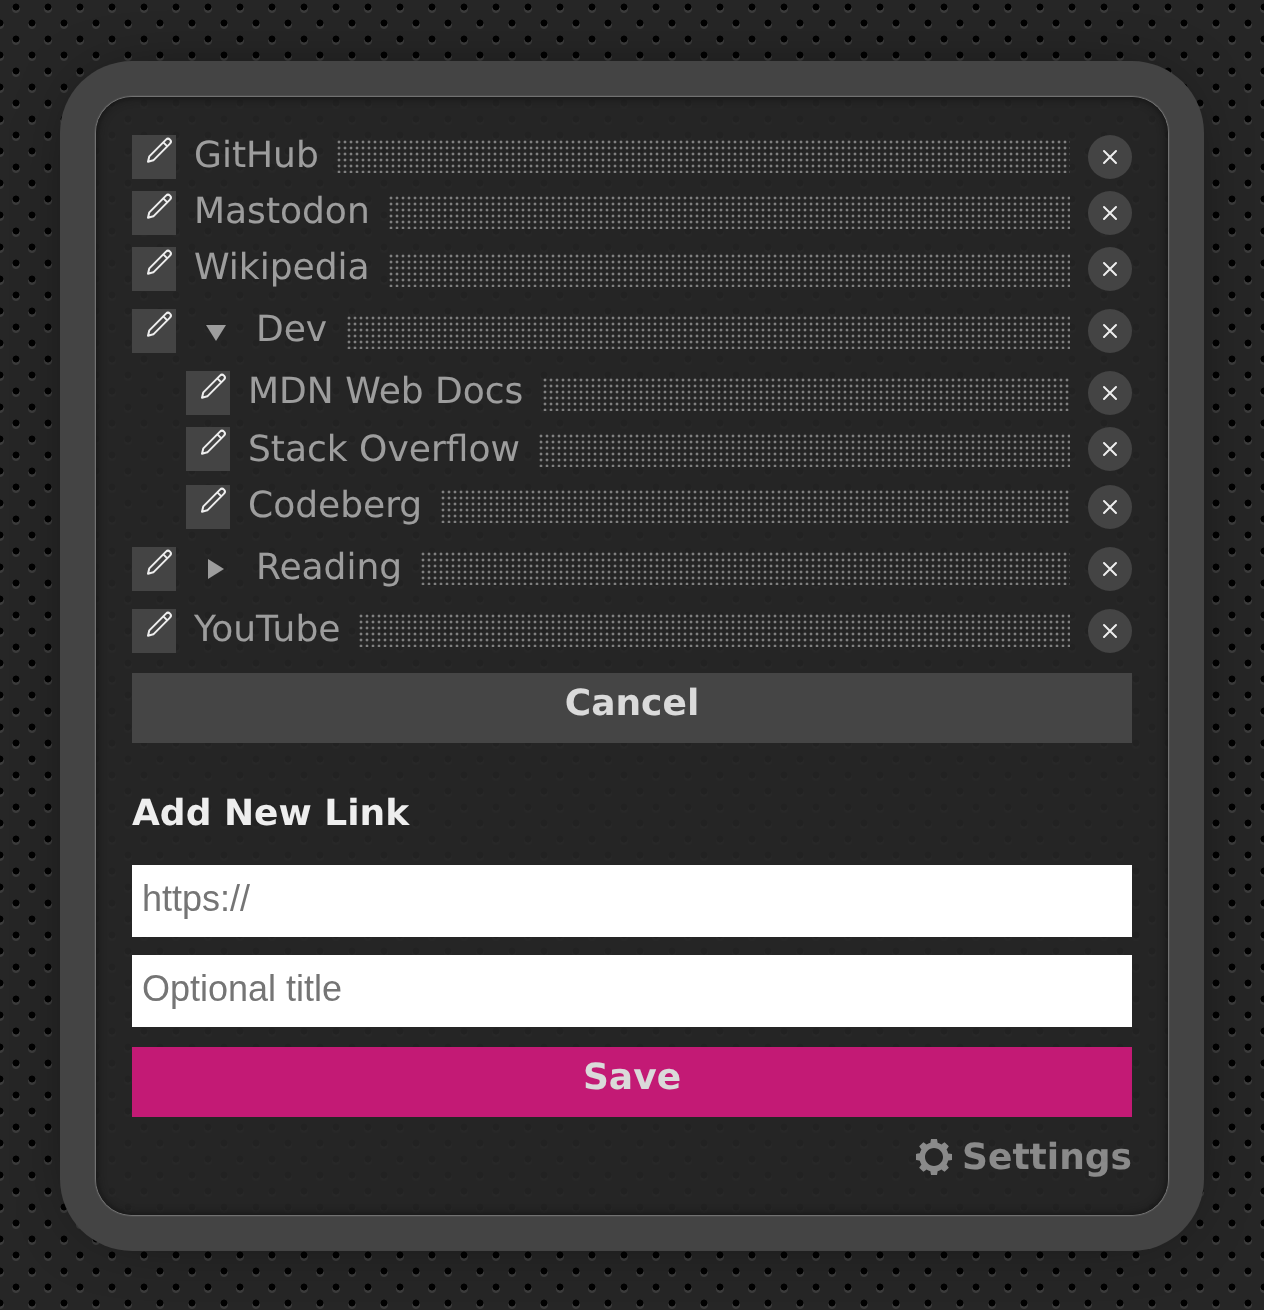
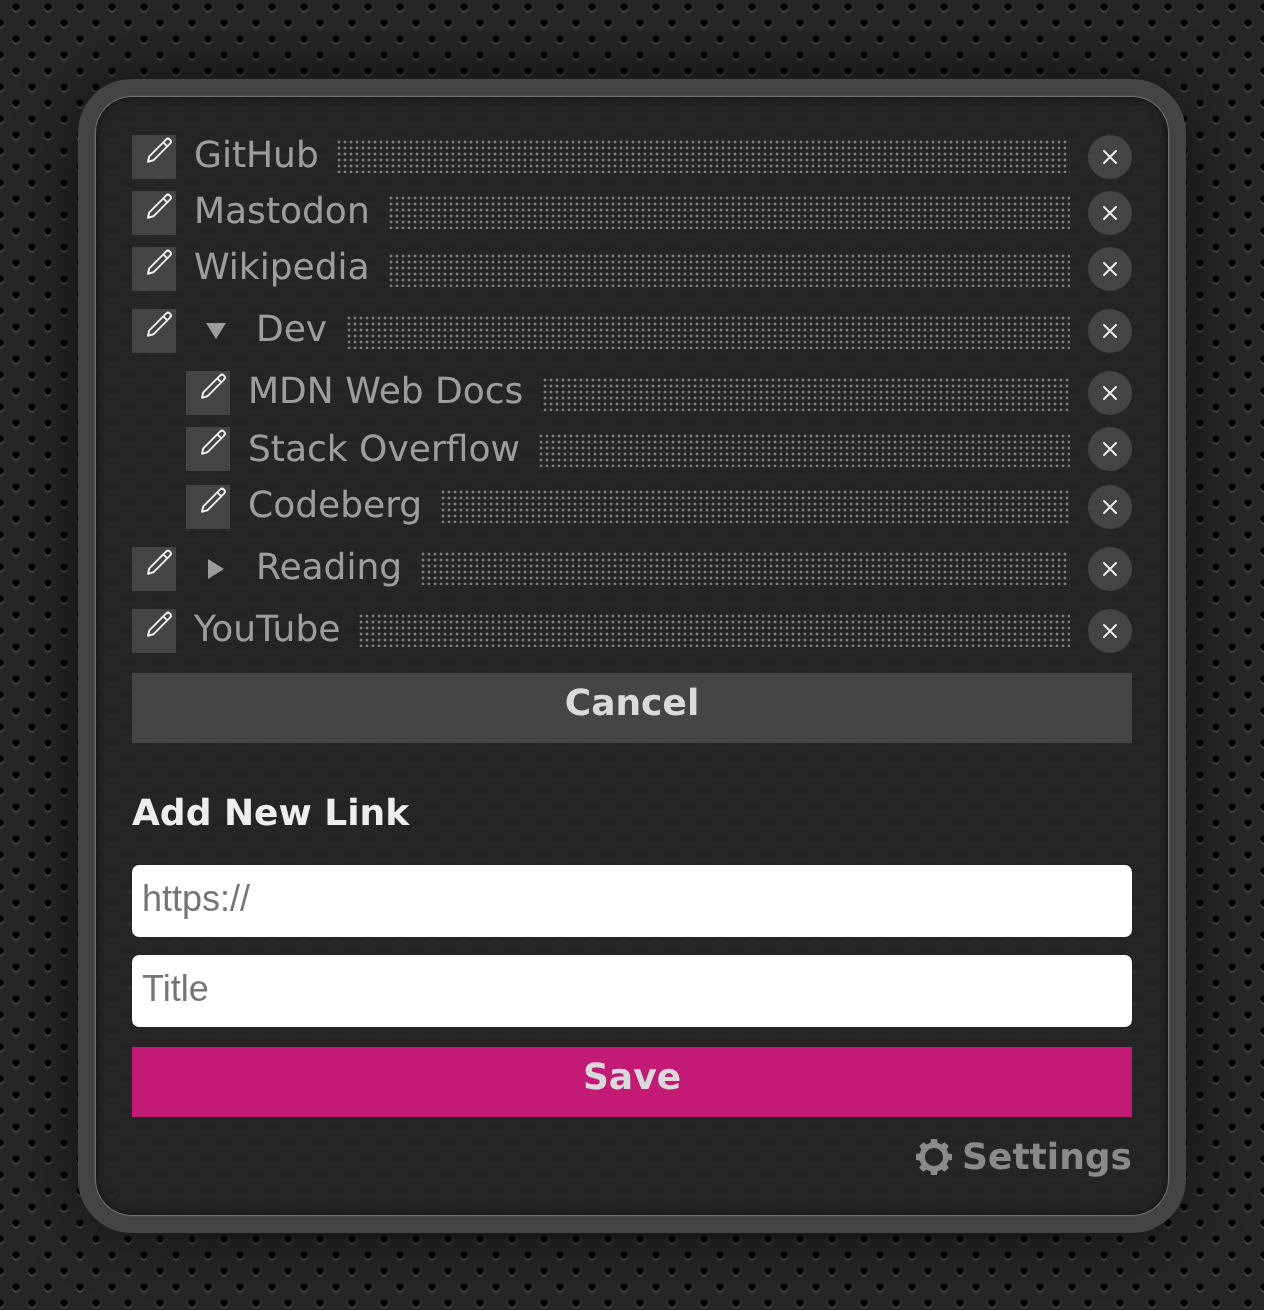
Small UI polish
- center the group arrow vertically in the row (it sat on the text
  baseline, a bit below the middle of the hover background)
- title placeholder back to "Title", the field isn't optional
- slightly rounded inputs in the add/edit form
- thinner frame around the main box
- regenerate README screenshots

Changed region(s): [[0.0309, 0.0305, 0.9565, 0.9771], [0.0926, 0.7328, 0.2777, 0.7634]]

diff --git a/css/styles.css b/css/styles.css
@@ -6,7 +6,7 @@ body{background:radial-gradient(var(--bg2) 15%,transparent 16%) 0 0,radial-gradi
 input:focus{outline:0}
 LABEL,BUTTON,SUMMARY{cursor:pointer}
 [hidden]{display:none!important;}
-main{width:clamp(320px,500px,100vw);margin:auto;padding: 1rem;background:var(--bga);border-radius:1rem;box-shadow: 0 0 1px var(--tc),0 0 0 1rem var(--bd),0 0 2rem var(--bg2),0 0 5px #111 inset;position: relative;}
+main{width:clamp(320px,500px,100vw);margin:auto;padding: 1rem;background:var(--bga);border-radius:1rem;box-shadow: 0 0 1px var(--tc),0 0 0 .5rem var(--bd),0 0 2rem var(--bg2),0 0 5px #111 inset;position: relative;}
 @media (max-width:767px){main{margin-top:0}#settings{margin-top:2rem}}
 #linklist,.flex,.linklist__item,.linklist__groupList{display:flex;justify-content:space-between}
 #manageToggle__label:hover,#newLink__save:hover,#settingsButton:hover,.delButton:hover,#backupButton:hover,#importButton:hover,.linklist__itemDeleteButton:hover,.linklist__itemEditButton:hover{opacity:1;filter:brightness(1.25)}
@@ -43,7 +43,7 @@ main{width:clamp(320px,500px,100vw);margin:auto;padding: 1rem;background:var(--b
 .linklist__groupList{interpolate-size:allow-keywords;flex-basis:100%;padding-left:1.5rem;box-sizing:border-box;margin-top:.3rem;overflow:clip;overflow-clip-margin:3px;transition:height .2s ease,margin-top .2s ease,opacity .2s ease,visibility .2s}
 .linklist__group:not(.open)>.linklist__groupList{height:0;margin-top:0;opacity:0;visibility:hidden}
 .linklist__group>.linklist__itemLink{cursor:pointer;user-select:none}
-.linklist__groupArrow{width:22px;text-align:center;font-style:normal}
+.linklist__groupArrow{width:22px;height:1.5rem;display:grid;place-items:center}
 .linklist__groupArrow:before{content:'';display:inline-block;border:.3em solid transparent;border-right:0;border-left:.45em solid var(--tc);transition:transform .2s ease}
 .linklist__group.open>.linklist__itemLink .linklist__groupArrow:before{transform:rotate(90deg)}
 #linkAdm.renaming #newLink__url{display:none}
@@ -51,7 +51,7 @@ main{width:clamp(320px,500px,100vw);margin:auto;padding: 1rem;background:var(--b
 .linklist__itemLink:hover{background:linear-gradient(90deg,var(--bd) 0,rgba(0,0,0,0) 100%)}
 [draggable]{user-select:none}
 #linkAdm{box-sizing:border-box;color:var(--tc);overflow:hidden;transition:max-height .2s linear;max-height:0}
-#linkAdm input{padding:5px;outline:0;border:none;width:100%;box-sizing:border-box;display:block;font-size:1rem;margin-bottom:.5rem;height:2rem}
+#linkAdm input{padding:5px;outline:0;border:none;width:100%;box-sizing:border-box;display:block;font-size:1rem;margin-bottom:.5rem;height:2rem;border-radius:.2rem}
 #manageToggle__label,#newLink__save{opacity:.9;margin:10px 0;background:var(--bb);border:none;color:var(--ab);padding:5px 15px;width:100%;height:35px;cursor:pointer;display:block;text-align:center;box-sizing:border-box;font-weight:700;user-select:none}
 #linkAdm__title{font-size:1rem}
 #settingsButton{color:var(--tc);opacity:.5;border:none;cursor:pointer;font-weight:700;user-select:none}

diff --git a/index.html b/index.html
@@ -15,7 +15,7 @@
     <div id=linkAdm>
       <h2 id=linkAdm__title>Add New Link</h2>
       <input id=newLink__url type=text placeholder="https://" />
-      <input id=newLink__title type=text placeholder="Optional title" />
+      <input id=newLink__title type=text placeholder=Title />
       <label id=newLink__save>Save</label>
       <span id=settingsButton title="Open settings view">Settings</span>
     </div>
